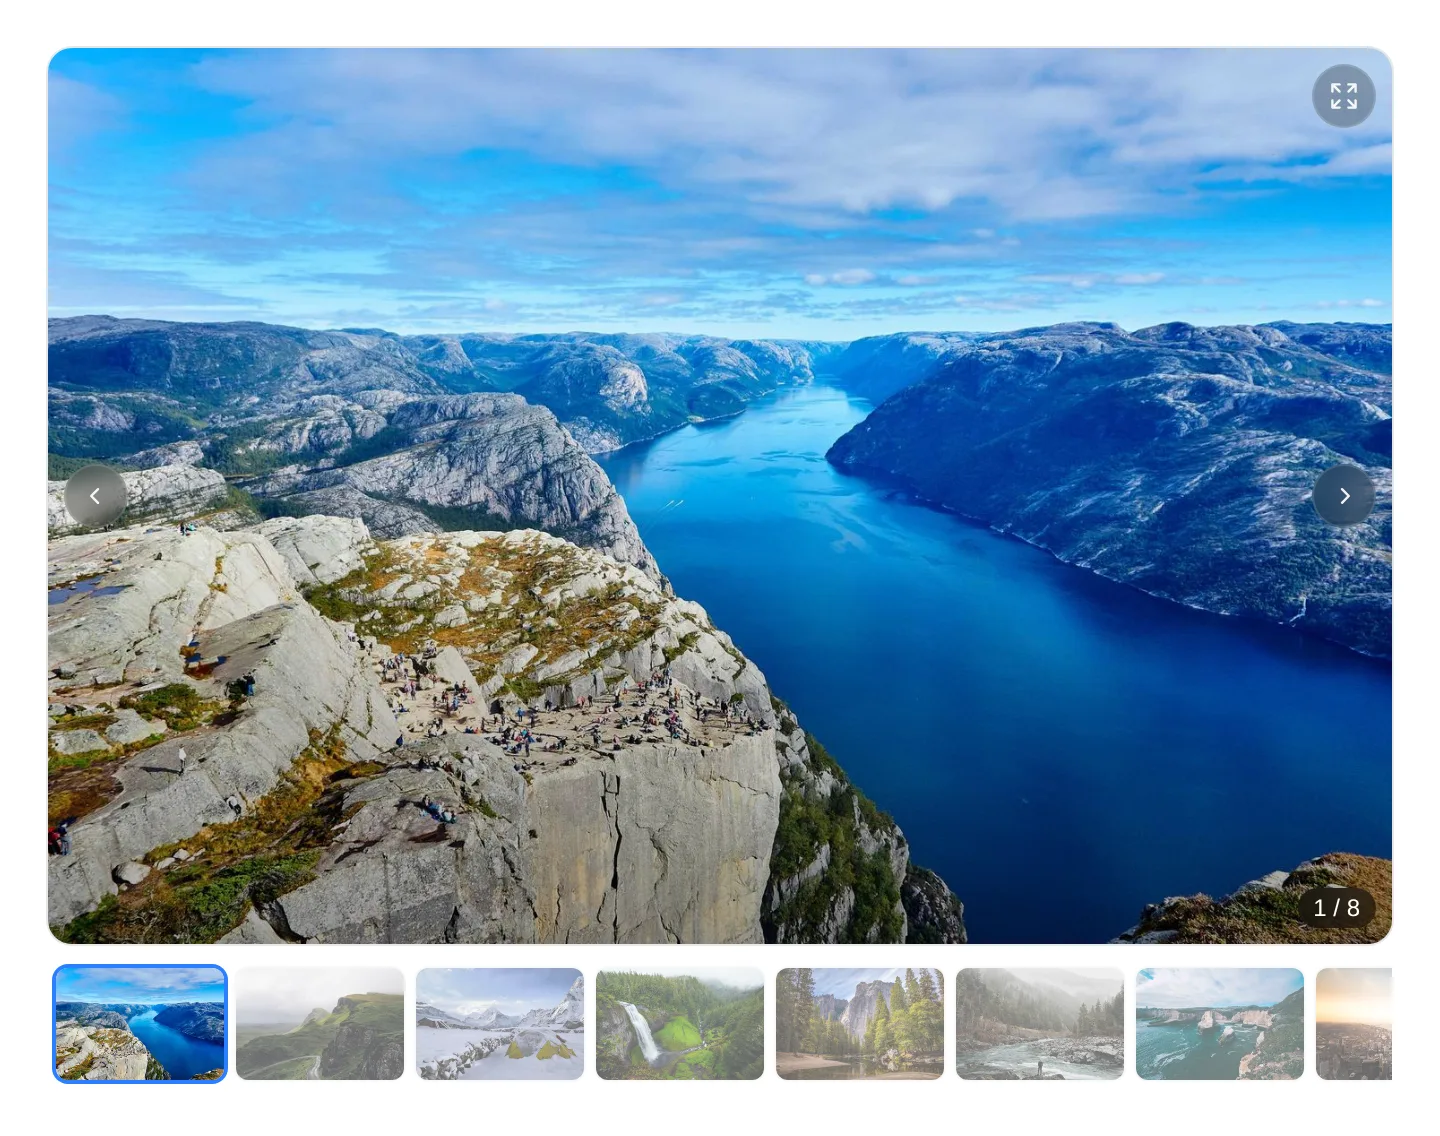
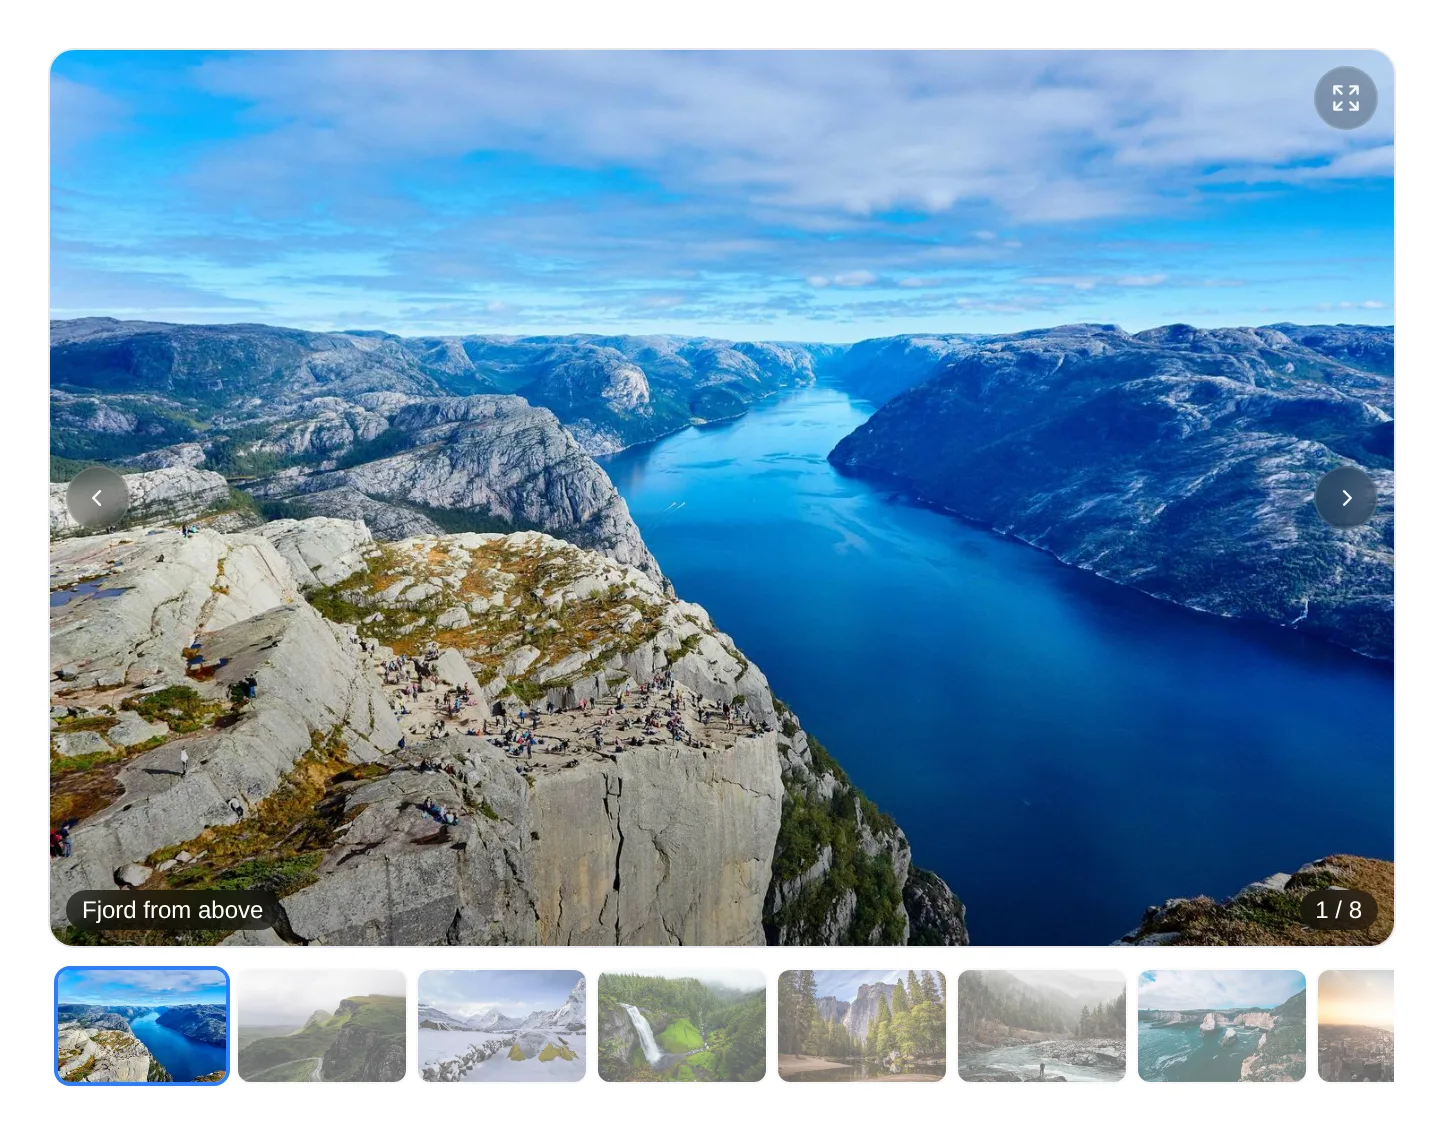
Gallery: Show the current image's caption on the stage

Changed region(s): [[0.0312, 0.2469, 0.9688, 0.9568], [0.0312, 0.0309, 0.9688, 0.1852], [0.625, 0.1852, 0.6562, 0.216]]

diff --git a/resources/js/vue/components/Gallery.vue b/resources/js/vue/components/Gallery.vue
@@ -17,6 +17,7 @@ const props = defineProps({
     loop: { type: Boolean, default: true },
     thumbnails: { type: Boolean, default: true },
     lightbox: { type: Boolean, default: true },
+    captions: { type: Boolean, default: true },
     labels: { type: Object, default: () => ({}) },
 });
 
@@ -40,6 +41,8 @@ const slides = computed(() => [
     { position: 0, image: props.images[slider.index.value] ?? null },
     { position: 1, image: slider.nextIndex.value === null ? null : props.images[slider.nextIndex.value] },
 ]);
+
+const caption = computed(() => (props.captions ? props.images[slider.target.value]?.caption ?? '' : ''));
 
 const trackStyle = computed(() => ({
     transform: `translate3d(${slider.offset.value}px, 0, 0)`,
@@ -171,6 +174,13 @@ function onLightboxChange(index) {
                     </IconButton>
                 </div>
             </template>
+
+            <span
+                v-if="caption"
+                class="pointer-events-none absolute bottom-2 left-2 max-w-[calc(100%-5rem)] truncate rounded-full bg-black/55 px-2 py-0.5 text-xs font-medium text-white backdrop-blur-sm"
+            >
+                {{ caption }}
+            </span>
 
             <span
                 v-if="images.length > 1"

diff --git a/README.md b/README.md
@@ -86,7 +86,7 @@ Every image is a plain object; only `src` is required.
 | --- | --- |
 | `src` | The full-size image, also what *open original* opens |
 | `thumb` | A small version for the thumbnail strip; falls back to `src` |
-| `caption` | Shown in the lightbox |
+| `caption` | Shown on the stage and in the lightbox |
 | `alt` | Alternative text; falls back to the caption |
 
 Map whatever your server sends into this shape in a `computed` — the components read no other keys.
@@ -106,6 +106,7 @@ Map whatever your server sends into this shape in a `computed` — the component
 | `loop` | `true` | Wrap from the last image to the first |
 | `thumbnails` | `true` | Strip below the stage |
 | `lightbox` | `true` | A click or tap on the stage opens the full-screen view |
+| `captions` | `true` | The current image's caption, bottom left on the stage |
 | `labels` | English | See [Wording](#wording) |
 
 Emits `change(index)` whenever another image comes to the front. The arrows appear on hover and

diff --git a/resources/boost/skills/islands-gallery-development/SKILL.md b/resources/boost/skills/islands-gallery-development/SKILL.md
@@ -37,6 +37,7 @@ other keys.
 | `loop` | `true` | Wrap from the last image to the first. |
 | `thumbnails` | `true` | Strip below the stage. |
 | `lightbox` | `true` | A click or tap on the stage opens the full-screen view. |
+| `captions` | `true` | The current image's caption, bottom left on the stage. |
 | `labels` | English | See *Wording*. |
 
 Emits `change(index)`. Arrows appear on hover (hidden on touch devices, where the stage swipes),
